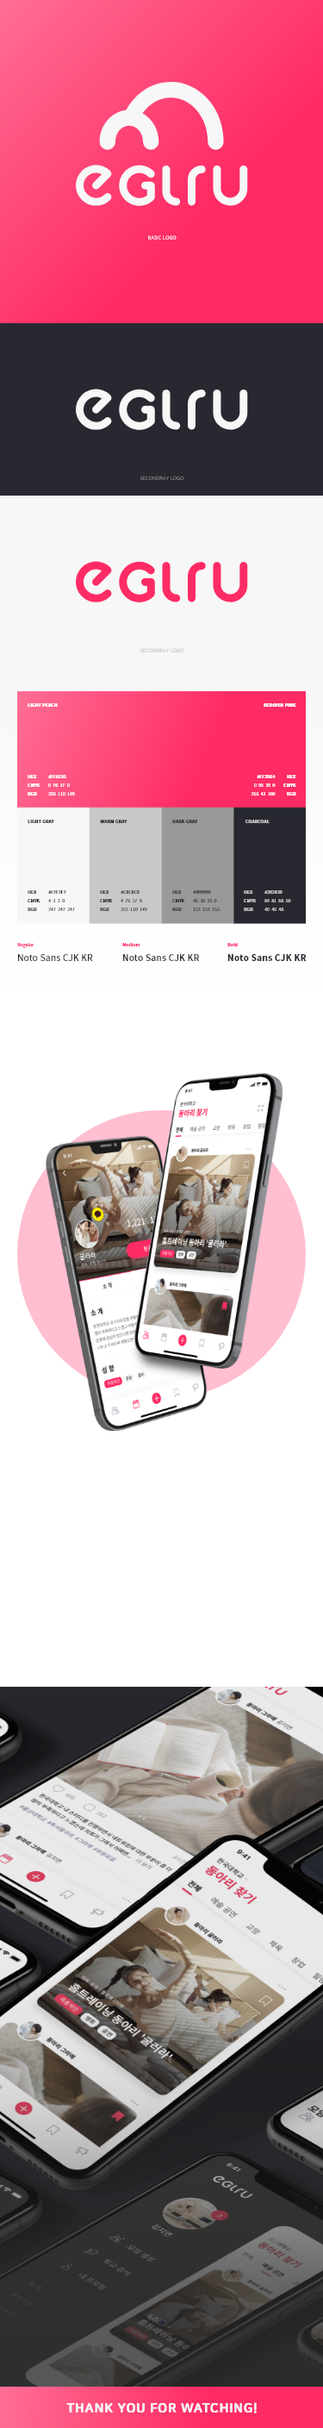
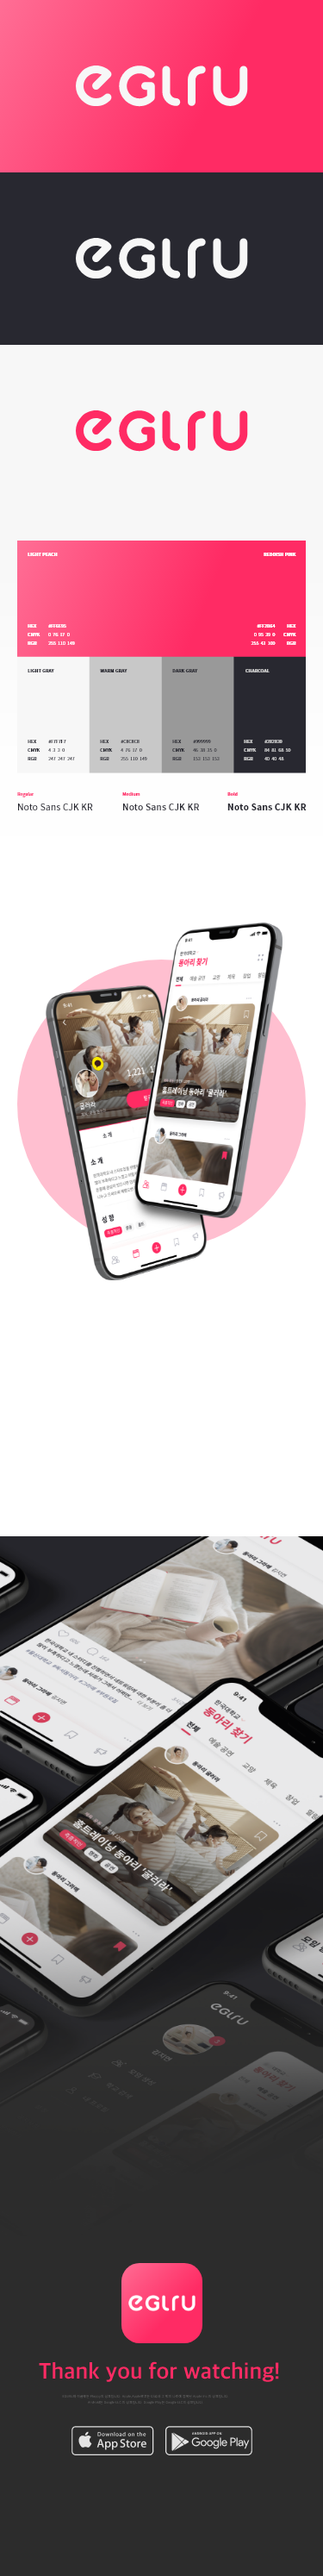
1202_s

diff --git a/project-9.html b/project-9.html
@@ -155,7 +155,7 @@
                                     지금까지 대학생들은 우리 학교에 어떤 동아리와 모임이 있는지조차 제대로 몰랐습니다.<br>이제 대학생들은 더이상 헤매지 않고
                                     우리학교의 모든 동아리와 모임을 확인할 수 있습니다.<br>관심있는 동아리와 모임은 팔로우하여 소식을 받아보고, 소통할 수
                                     있습니다. </p>
-                                <p class="text-white" style=" font-size:0.9vw; line-height:1.8vw;  padding-right:10vw;">
+                                <p  style="color:#999999; font-size:0.9vw; line-height:1.8vw;  padding-right:10vw;">
                                     <br>Until now, university students didn't even know what kind of mettings and gatherings in each university.<br>
                                     Now, university students can check all the gatherings and meetings in each university 
                                     without <br>
@@ -174,7 +174,7 @@
                                     향후 이글루는 은행, 카드사와 PLCC 파트너 제휴를 맺어<br> 대학생에게 다양한 서비스를 제공합니다.<br>동아리들은 앱
                                     내에서 각 동아리 카드를 발행할 수 있고,<br>이를 통해 동아리에게 회비지출 내역과 대학가 가맹점 정보를 제공<br> 회비의
                                     투명성을 보장하고 할인, 이벤트 등 다양한 혜택을 제공합니다.</p>
-                                <p class="text-white" style=" font-size:0.9vw; line-height:1.8vw;  padding-right:10vw; ">
+                                <p style="color:#999999; font-size:0.9vw; line-height:1.8vw;  padding-right:10vw; ">
                                     <br>In the future, EGLRU will form a PLCC partnership<br>with banks and
                                     credit card companies.
                                     We provide various<br>services to university students.
@@ -246,7 +246,7 @@
                             <p class="text-white" style="font-size:0.9vw; line-height:1.8vw;">
                                 소셜 기능을 통해 동아리와 모임의 소식, 공지, 활동, Q&A 등 모든 것들을 공유할 수 있습니다.<br>이글루는 모든 대학교
                                 모임들의 활동과 공유, 그로 인한 새로운 협업과 창작, 선의의 경쟁을 목표로 합니다.</p>
-                            <p class="text-white" style=" font-size:0.8vw; line-height:1.6vw;   ">
+                            <p style="color:#999999; font-size:0.8vw; line-height:1.6vw;   ">
                                 <br>Through social functions, you can share news about clubs and
                                 meetings, announcements, activities, and Q&A.<br>
                                 Igloo aims at activities and sharing of all university gatherings,
@@ -257,12 +257,12 @@
                     <div style="position:relative" class="main2">
                         <img class="width100" src="assets/img/img2_m.png" alt="">
                         <div data-aos="fade-up" data-aos-duration="1500"
-                            style="position: absolute;left:4vw; top:460vw; z-index:10;">
+                            style="position: absolute;left:4vw; top:413vw; z-index:10;">
                             <p style="color:#ff2b64; font-size:15px; line-height:2vw;">
                                 03 &nbsp;&nbsp;Community</p>
                         </div>
                         <div data-aos="fade-up" data-aos-duration="1500"
-                            style="position: absolute;left:4vw; top:470vw; z-index:10;padding-right:4vw;">
+                            style="position: absolute;left:4vw; top:423vw; z-index:10;padding-right:4vw;">
                             <p class="text-white" style=" font-size:15px; line-height:30px;">
                                 소셜 기능을 통해 동아리와 모임의 소식, 공지<br>활동, Q&A 등 모든 것들을 공유할 수 있습니다.<br>이글루는 모든 대학교 모임들의 활동과 공유<br>그로 인한
                                 새로운 협업과 창작, 선의의 경쟁을 목표로 합니다.<br>
